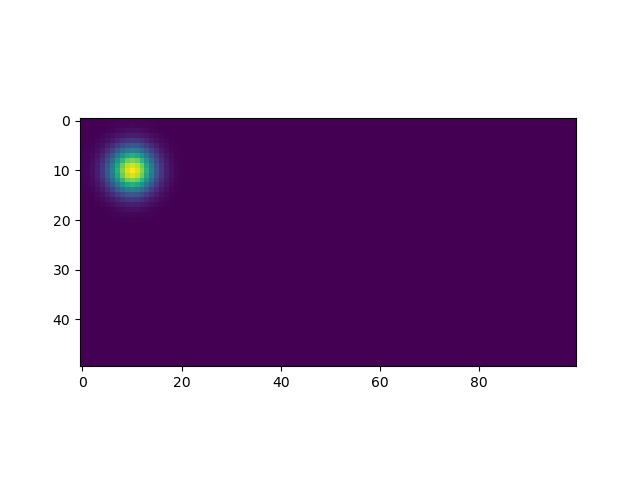
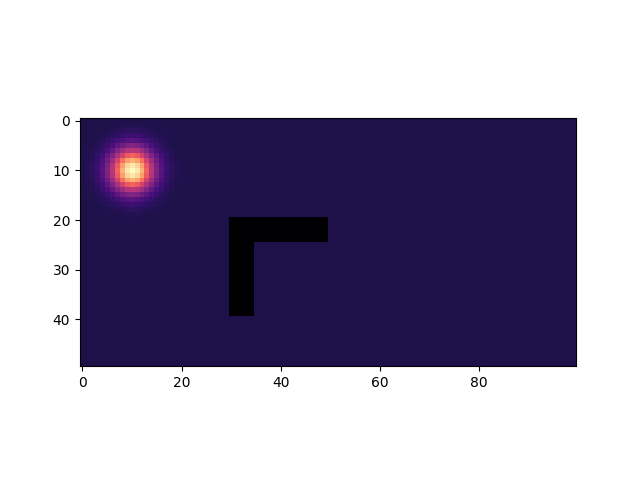
new: Obstacles

diff --git a/grid.py b/grid.py
@@ -43,14 +43,20 @@ class Grid:
             for x in range(self.nbCols):
                 self.index[(y, x)] = x + y * self.nbCols
 
-    def getIndex(self, row: int, col: int) -> int:
+    def getIndex(self, row: int, col: int) -> typing.Optional[int]:
         """
         :param row: Ligne
         :param col: Colonne
         :return: Index associé
         """
 
-        return self.index.get((row, col), -1)
+        return self.index.get((row, col), None)
+
+    def unset(self, row: int, col: int):
+        if (row, col) in self.index:
+            self.index.pop((row, col))
+        else:
+            print("err")
 
     def neighbors(self, idx: int) -> typing.List[int]:
         """
@@ -64,12 +70,12 @@ class Grid:
 
         for dx in (-1, 1):
             idx = self.getIndex(y, x + dx)
-            if idx != -1:
+            if idx is not None:
                 N.append(idx)
 
         for dy in (-1, 1):
             idx = self.getIndex(y + dy, x)
-            if idx != -1:
+            if idx is not None:
                 N.append(idx)
 
         return N
@@ -172,11 +178,17 @@ class Grid:
 
         return values
 
-    def explicitEuler(self, U: typing.List[float], T: float, dt: float) -> typing.List[np.matrix]:
+    def explicitEuler(self,
+                      U: typing.List[float],
+                      T: float,
+                      dt: float,
+                      dirichlet: bool = True) \
+            -> typing.List[np.matrix]:
         """
         :param U: Matrice
         :param T: T
         :param dt: Delta t
+        :param dirichlet: Laplacien Dirichlet ou Neumann
         :return: Liste des matrices à chaque intervalle delta t
         """
 
@@ -184,7 +196,11 @@ class Grid:
         t = 0
         Uk = U
         m_id = self.Identity()
-        m_lap = self.Laplacian()
+
+        if dirichlet:
+            m_lap = self.LaplacianD()
+        else:
+            m_lap = self.Laplacian()
 
         while t < T:
             Uk1 = (m_id + dt * m_lap) * Uk
@@ -231,12 +247,17 @@ class Grid:
 
     def showValues(self):
         res: np.matrix = np.asmatrix(np.zeros((self.nbRows, self.nbCols)))
+        values: typing.List[float] = self.values[:]
+        values.sort()
+
+        maxi = values[-1]
 
         for row in range(self.nbRows):
             for col in range(self.nbCols):
-                res[row, col] = self.values[self.getIndex(row, col)]
+                idx = self.getIndex(row, col)
+                res[row, col] = self.values[idx] / maxi if idx is not None else -0.15
 
-        plt.imshow(res)
+        plt.imshow(res, cmap="magma")
         plt.show()
 
     def showDerivatives(self):
@@ -245,16 +266,15 @@ class Grid:
         for row in range(self.nbRows):
             for col in range(self.nbCols):
                 idx = self.getIndex(row, col)
-                if self.derivatives[idx] == (0., 0.):
+                if idx is None:
+                    res[row, col] = 0.
+                elif self.derivatives[idx] == (0., 0.):
                     res[row, col] = 0.
                 else:
                     x, y = self.derivatives[idx]
-                    res[row, col] = np.angle(complex(x, y)) + np.pi
+                    res[row, col] = np.angle([complex(x, y)])[0]
 
-                if col < 25:
-                    print(res[row, col])
-
-        plt.imshow(res, cmap="hsv")
+        plt.imshow(res, cmap="twilight")
         plt.show()
 
     def reloadValues(self, V: np.matrix):
@@ -262,18 +282,40 @@ class Grid:
         for row in range(self.nbRows):
             for col in range(self.nbCols):
                 idx = self.getIndex(row, col)
-                self.values[idx] = V[idx]
+                if idx is not None:
+                    self.values[idx] = V[idx]
 
         # Derivative
         for row in range(self.nbRows):
             for col in range(self.nbCols):
                 idx = self.getIndex(row, col)
-                idx_xm1 = self.getIndex(row-1, col) if row != 0 else idx
-                idx_xp1 = self.getIndex(row+1, col) if row != self.nbRows-1 else idx
-                idx_yp1 = self.getIndex(row, col+1) if row != self.nbCols-1 else idx
-                idx_ym1 = self.getIndex(row, col-1) if col != 0 else idx
+                if idx is None:
+                    continue
 
-                dx = (self.values[idx_xp1] - self.values[idx_xm1]) / 2
-                dy = (self.values[idx_yp1] - self.values[idx_ym1]) / 2
+                idx_xm1 = self.getIndex(row-1, col)
+                idx_xp1 = self.getIndex(row+1, col)
+                idx_yp1 = self.getIndex(row, col+1)
+                idx_ym1 = self.getIndex(row, col-1)
 
-                self.derivatives[idx] = (dx, dy)
+                dx = 0.
+                dy = 0.
+
+                if idx_xm1 is not None:
+                    dx += - self.values[idx_xm1] + self.values[idx]
+
+                if idx_xp1 is not None:
+                    dx += - self.values[idx] + self.values[idx_xp1]
+
+                if idx_yp1 is not None:
+                    dy += - self.values[idx_yp1] + self.values[idx]
+
+                if idx_ym1 is not None:
+                    dy += - self.values[idx] + self.values[idx_ym1]
+
+                if (dx, dy) == (0., 0.):
+                    self.derivatives[idx] = (0., 0.)
+                else:
+                    alpha = np.angle([complex(dx, dy)])[0]
+                    self.derivatives[idx] = (-math.sin(alpha), math.cos(alpha))
+                    # NOTE: I'm not sure if we should take the "true" derivative or its orthogonal
+                    #       vector, so I used the orthogonal one, pointing toward the origin

diff --git a/main.py b/main.py
@@ -94,6 +94,24 @@ def PSNR_RGB(u, g):
 if __name__ == "__main__":
     D = Grid(50, 100)
 
+    """
+    for i in range(10):
+        for j in range(20):
+            D.unset(20 + i, 30 + j)
+    """
+
+    """
+    for i in range(-5, 5):
+        for j in range(-5, 5):
+            if i*i + j*j < 25:
+                D.unset(20 + i, 70 + j)
+    """
+
+    for i in range(5):
+        for j in range(20):
+            D.unset(20 + i, 30 + j)
+            D.unset(20 + j, 30 + i)
+
     V = [0.] * D.size()
     V[D.getIndex(10, 10)] = 1.
 
